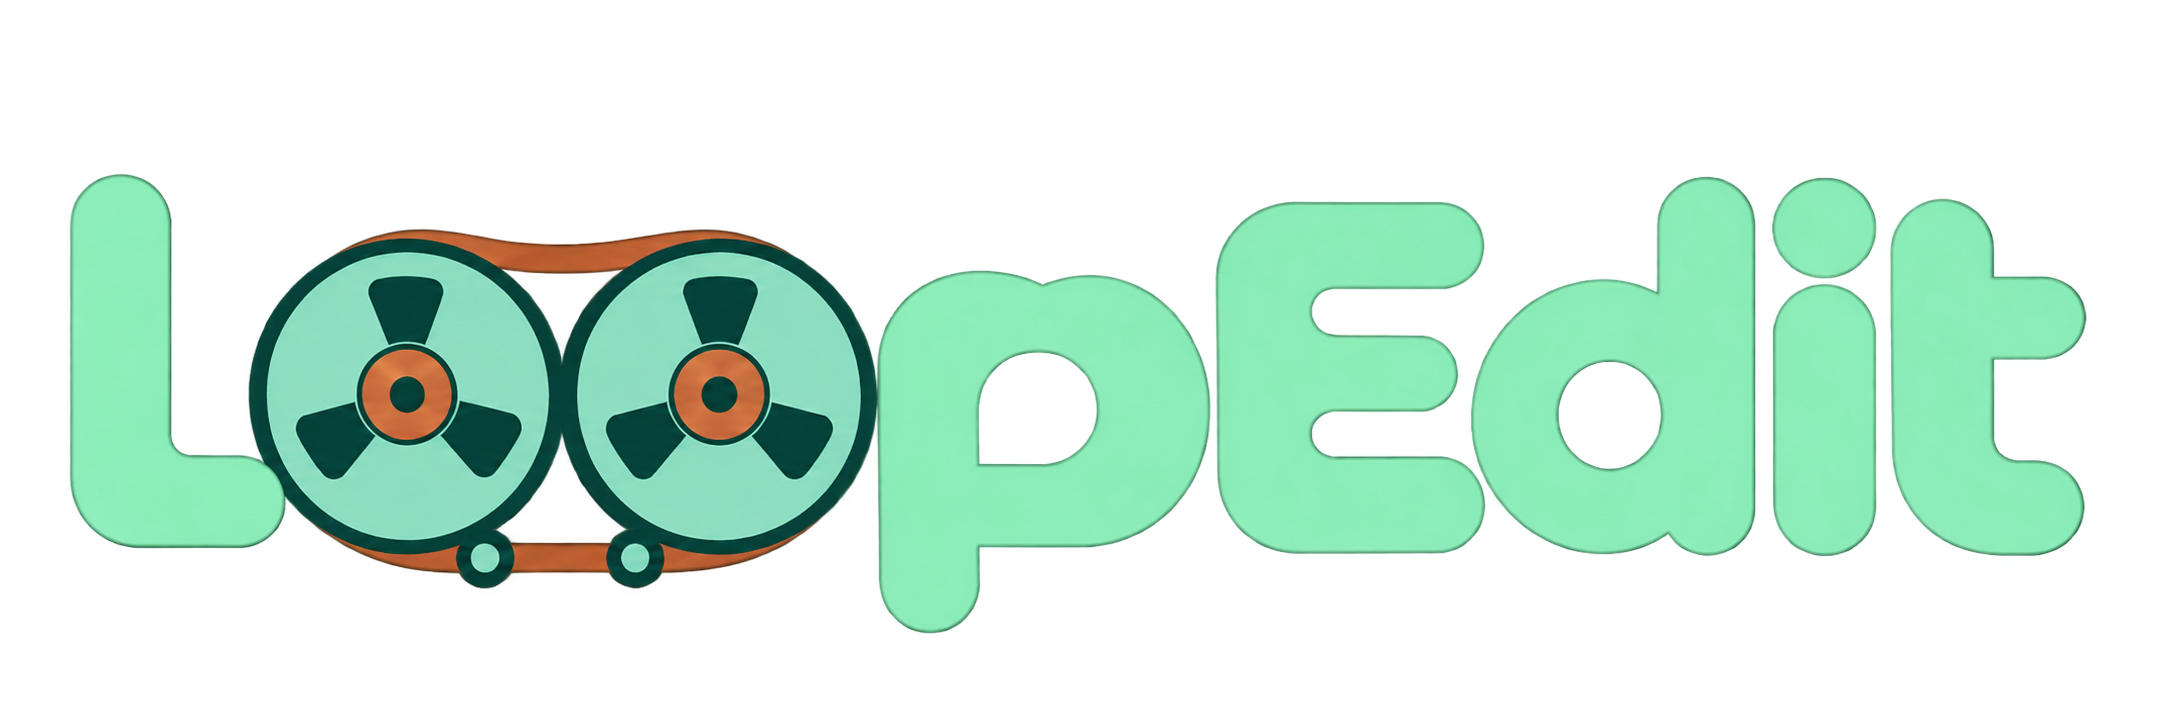
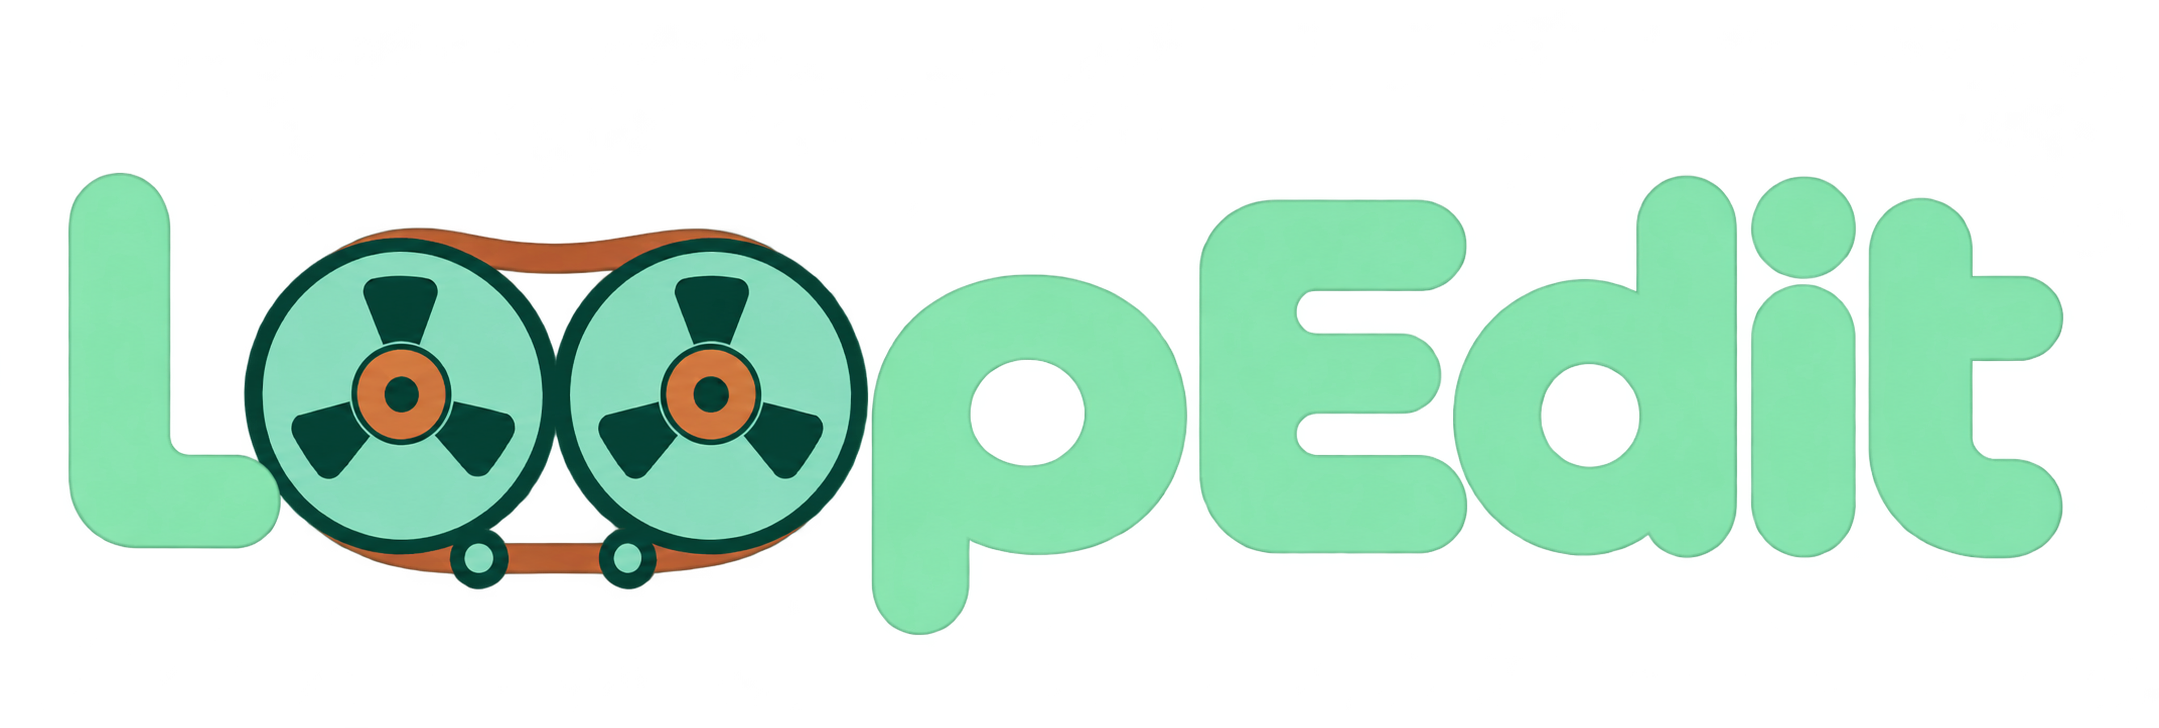
Fix lowercase p in LoopEdit wordmark

diff --git a/README.md b/README.md
@@ -148,6 +148,10 @@ LoopEdit was originally created by djorchard. The toolbar uses the original tape
 
 > Clean up this exact LoopEdit wordmark for use as a compact desktop toolbar logo. Preserve the exact spelling, rounded mint lettering, teal reels with triangular spokes, copper hubs, and the physical copper tape hugging the outer reel rims and running over the two lower rollers. The white and cyan edge debris between letters and near the edges is accidental: remove it completely. Every gap and letter counter must be clean, genuinely transparent alpha, with smooth antialiased edges and no white matte. Crop close to the wordmark, with small even transparent margins. No redraw of the overall shape, no box, no added details.
 
+> Correct only the lowercase p in the attached LoopEdit logo. Use the logo's existing lowercase d as the exact shape model: rotate the d shape 180 degrees to obtain a conventional lowercase p with a circular bowl, clean single curved top, and a straight left descender below the baseline. Place this new p between the reels and the capital E, with matching mint colour and the same x-height and baseline as the d bowl. The p descender should join the bowl on the left and must not extend upwards above the bowl or create a separate hump. Keep all seven other glyphs, both reels, tape, roller placement, image dimensions, and spacing unchanged. Clean transparent alpha inside and around the replaced letter. This is a one-letter edit, not a new design.
+
+> Clean the alpha matte of this attached LoopEdit logo while preserving the exact letter shapes, especially the now-normal lowercase p with one smooth bowl, and the tape wrapped tightly around the teal reels. Remove every speck of white from the transparent holes in the p and d, the gap before E, and between the other letters. The gaps and counters should be fully transparent, as should the surrounding canvas. Preserve the filled mint shapes, dark teal reels and copper tape, their layout, size and colours. Do not add texture, glow, outlines or a backdrop. This is a targeted cleanup of accidental edge and background pixels.
+
 </details>
 
 The project uses a custom source-available license. You can build, modify, and share the editor with creator credit and the LoopEdit application name preserved. [License](LICENSE)
